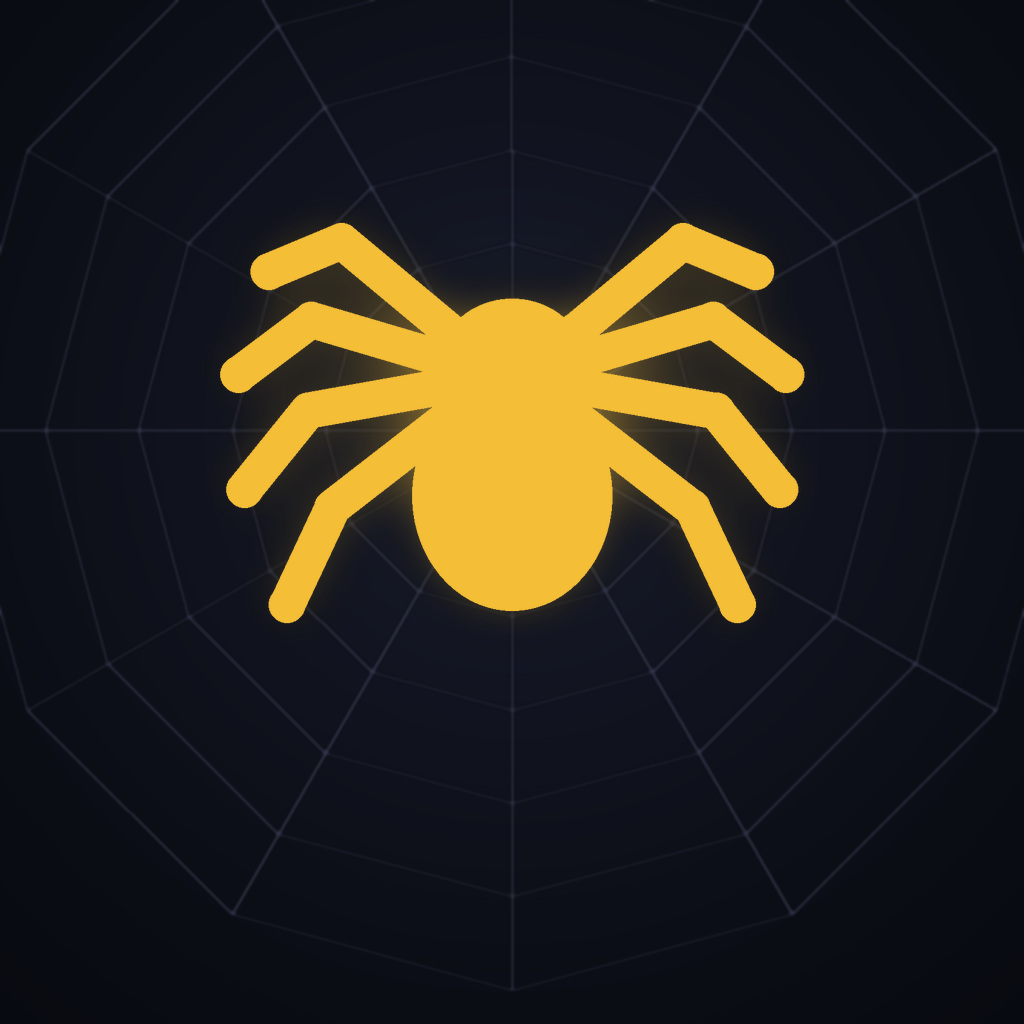
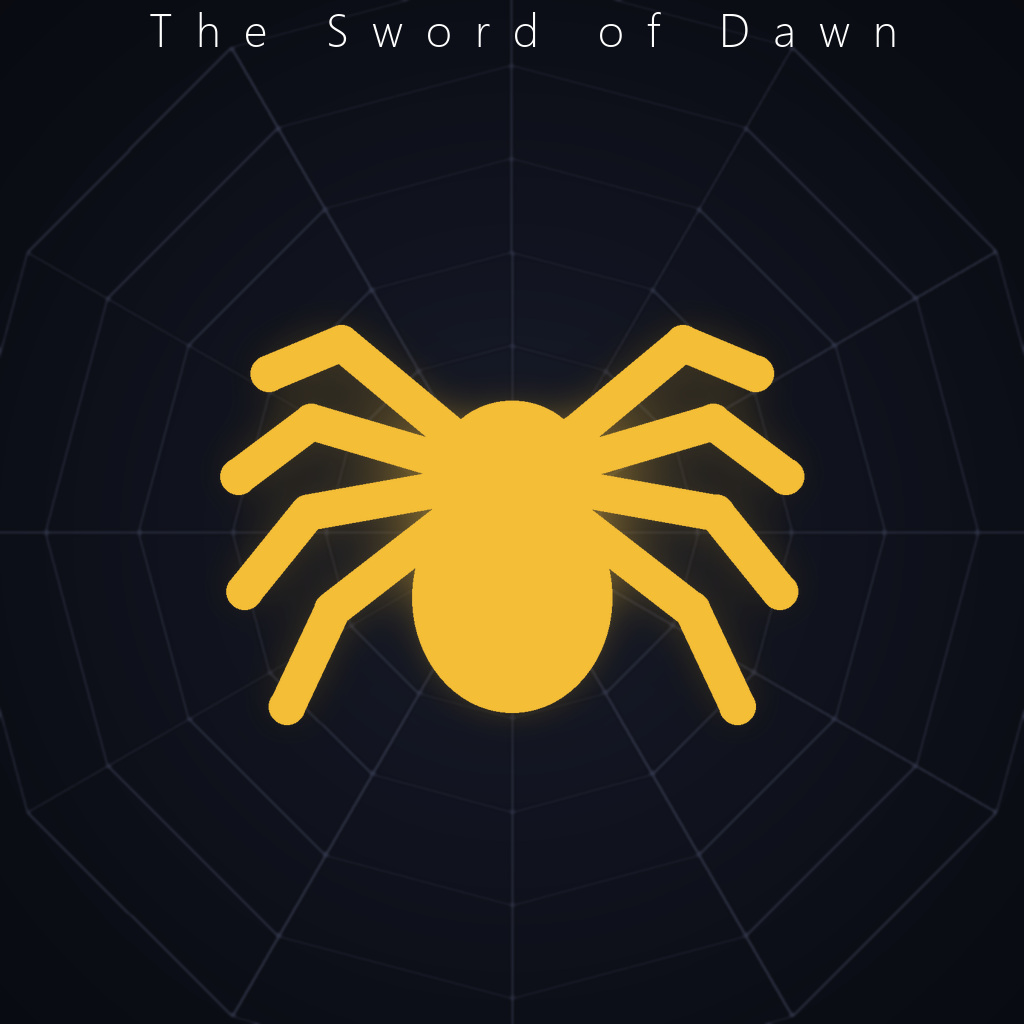
chore: Set the title along the top of the cover
Title sits 12px from the top edge, and the spider drops to the middle of
the frame so the composition is not top-heavy. Typeset in Segoe UI Light
at 46px with 500 tracking, folded into make_cover.py rather than pasted
on afterwards - clear TITLE_TEXT for a plain background plate.

Two things the drawing code has to account for: the glyphs are placed by
their ink bounding box, so the cap height really does land 12px down
instead of the font's ascender gap; and tracking is added after every
letter, leaving a spare gap at the end, so the line shifts right by half
a gap to be optically centred.

diff --git a/tools/make_cover.py b/tools/make_cover.py
@@ -1,17 +1,20 @@
 # -*- coding: utf-8 -*-
-"""生成创意工坊封面：深色底 + 琥珀金的上层叙事者。
+"""生成创意工坊封面：深色底 + 琥珀金的上层叙事者 + 顶部标题。
 
 skill 的发布清单要求封面至少 512×512；这里出 1024×1024，和塞西尔帝国那张一致，
 缩略图缩下去更干净。蜘蛛用城邦那套琥珀金（245,190,55，和 PlayerColors 里同一个值），
 背后压一层很淡的蛛网，呼应「叙事者神经网络」。
 
-下方约四分之一刻意留空，方便自己用 PS 往上压标题。
+标题贴顶排，蜘蛛随之落到画面正中，构图才不会头重脚轻。
+字距是加在每个字母**后面**的，末尾会多出一份空档，所以整行还要右移半个字距
+才是视觉居中——直接按总宽居中会偏左。
+把 TITLE_TEXT 置空就出一张不带字的底图。
 """
 import math
 import os
 import sys
 
-from PIL import Image, ImageDraw, ImageFilter
+from PIL import Image, ImageDraw, ImageFilter, ImageFont
 
 sys.path.insert(0, os.path.dirname(os.path.abspath(__file__)))
 import make_icon  # noqa: E402  —— 复用同一只蜘蛛，不另画一份
@@ -26,11 +29,17 @@ BG_EDGE    = (8, 10, 16)
 WEB_COLOR  = (74, 80, 108)
 
 SPIDER_SIZE   = 620          # 蜘蛛边长
-SPIDER_CENTER = (SIZE // 2, 430)   # 偏上，给标题留地方
+SPIDER_CENTER = (SIZE // 2, SIZE // 2 + 20)   # 正中略偏下，给顶部标题让位
 WEB_CENTER    = SPIDER_CENTER
 WEB_RINGS     = 6
 WEB_SPOKES    = 12
 WEB_MAX_R     = 560
+
+TITLE_TEXT  = "The Sword of Dawn"          # 置空则不画标题
+TITLE_FONT  = r"C:\Windows\Fonts\segoeuil.ttf"   # Segoe UI Light
+TITLE_SIZE  = 46
+TITLE_TRACK = 0.50           # em 为单位；PS 字符面板里的字距填 500
+TITLE_TOP   = 12             # 字形顶端离画布顶端的像素数
 
 
 def radial_background():
@@ -71,6 +80,25 @@ def draw_web(img):
     return img
 
 
+def draw_title(img):
+    d = ImageDraw.Draw(img)
+    f = ImageFont.truetype(TITLE_FONT, TITLE_SIZE)
+    # 按墨迹包围盒定位，字形顶端才会正好落在 TITLE_TOP，
+    # 而不是差着字体自带的那点 ascender 空隙。
+    ink = d.textbbox((0, 0), TITLE_TEXT, font=f)
+    y = TITLE_TOP - ink[1]
+
+    extra  = TITLE_SIZE * TITLE_TRACK
+    widths = [d.textlength(ch, font=f) for ch in TITLE_TEXT]
+    total  = sum(widths) + extra * (len(TITLE_TEXT) - 1)
+    x = (img.width - total) / 2.0 + extra / 2.0   # 补末尾多出的半个字距
+
+    for ch, w in zip(TITLE_TEXT, widths):
+        d.text((x, y), ch, font=f, fill=(255, 255, 255))
+        x += w + extra
+    return img
+
+
 def main():
     img = draw_web(radial_background())
 
@@ -89,7 +117,10 @@ def main():
 
     out = Image.alpha_composite(img.convert("RGBA"), glow)
     out.alpha_composite(tinted, (gx, gy))
-    out.convert("RGB").save(OUT, "JPEG", quality=94, subsampling=0)
+    out = out.convert("RGB")
+    if TITLE_TEXT:
+        draw_title(out)
+    out.save(OUT, "JPEG", quality=94, subsampling=0)
     print("wrote %s (%dx%d)" % (OUT, SIZE, SIZE))
 
 

diff --git a/README.md b/README.md
@@ -207,7 +207,7 @@ UI/CityStates_TSODDreamCity.lua       城邦面板：让新类别有图标和名
 Textures/*.dds                        图标本体
 tools/make_icon.py                    重新生成图标
 tools/make_cover.py                   重新生成创意工坊封面
-DreamCity.jpg                         创意工坊封面（1024×1024，下方留白待加标题）
+DreamCity.jpg                         创意工坊封面（1024×1024，标题贴顶）
 WORKSHOP_CN.md / WORKSHOP_EN.md       创意工坊简介（Steam BBCode）
 ```
 
